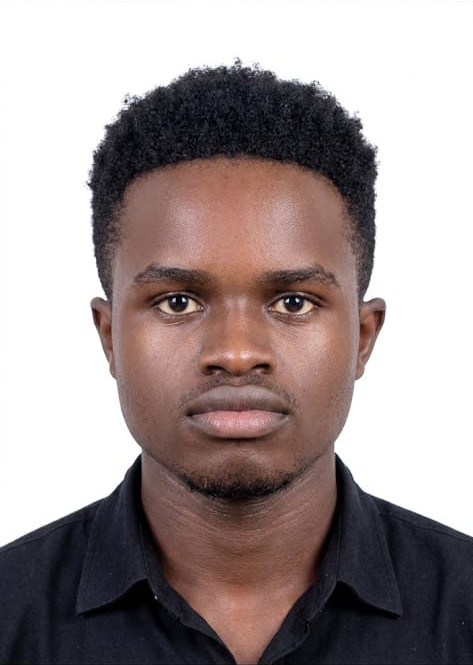
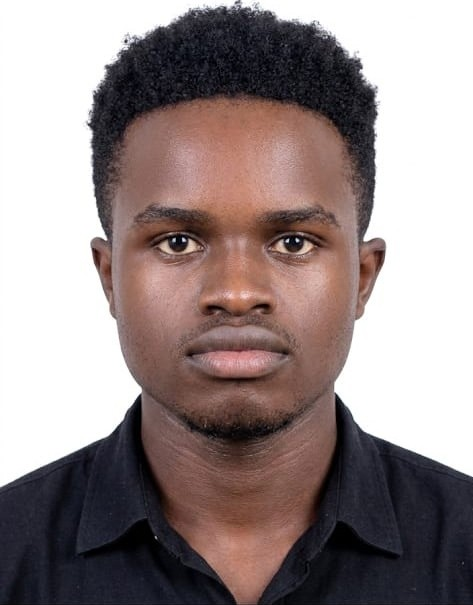
update_news_and_footer

diff --git a/admin/index.html b/admin/index.html
@@ -149,24 +149,36 @@
             <div class="grid grid-cols-1 md:grid-cols-2 lg:grid-cols-3 gap-8">
                 <!-- JEKYLL STARTS READING _POSTS HERE -->
                 {% for post in site.posts %}
-                <article class="bg-white rounded-2xl overflow-hidden shadow-md hover:shadow-xl transition-shadow border border-slate-100 flex flex-col">
+                <article class="bg-white rounded-2xl overflow-hidden shadow-md hover:shadow-xl transition-all border border-slate-100 flex flex-col relative group">
+                    
+                    <!-- TAG/CATEGORY BADGE -->
+                    <div class="absolute top-4 left-4 z-10 bg-white/95 backdrop-blur-sm text-marine-800 text-xs font-extrabold px-3 py-1 rounded-full shadow-sm uppercase tracking-wider">
+                        {{ post.category | default: "Update" }}
+                    </div>
+
                     {% if post.image %}
                     <div class="h-48 overflow-hidden bg-slate-200 relative">
-                        <img src="{{ post.image }}" alt="{{ post.title }}" class="w-full h-full object-cover transition-transform duration-500 hover:scale-105">
+                        <a href="{{ post.url | relative_url }}">
+                            <img src="{{ post.image }}" alt="{{ post.title }}" class="w-full h-full object-cover transition-transform duration-500 group-hover:scale-105">
+                        </a>
                     </div>
                     {% endif %}
                     <div class="p-6 flex flex-col flex-grow">
                         <div class="flex items-center gap-2 text-xs font-semibold text-emerald-600 mb-3 uppercase tracking-wider">
                             <span>{{ post.date | date: "%B %d, %Y" }}</span>
                         </div>
-                        <h3 class="font-bold text-xl text-slate-900 mb-3 leading-tight">
-                            {{ post.title }}
+                        <h3 class="font-bold text-xl text-slate-900 mb-3 leading-tight hover:text-marine-700 transition-colors">
+                            <a href="{{ post.url | relative_url }}">{{ post.title }}</a>
                         </h3>
                         <div class="text-slate-600 mb-6 text-sm line-clamp-3">
                             {{ post.content | strip_html | truncatewords: 30 }}
                         </div>
                         <div class="mt-auto pt-4 border-t border-slate-100 flex items-center justify-between">
                             <span class="text-xs font-medium text-slate-500">By {{ post.author | default: "SOMEK Core Team" }}</span>
+                            <!-- READ MORE LINK -->
+                            <a href="{{ post.url | relative_url }}" class="text-emerald-600 hover:text-emerald-700 font-bold text-sm flex items-center gap-1 transition-colors">
+                                Read More <svg xmlns="http://www.w3.org/2000/svg" class="w-4 h-4" viewBox="0 0 24 24" fill="none" stroke="currentColor" stroke-width="2" stroke-linecap="round" stroke-linejoin="round"><line x1="5" y1="12" x2="19" y2="12"></line><polyline points="12 5 19 12 12 19"></polyline></svg>
+                            </a>
                         </div>
                     </div>
                 </article>
@@ -235,10 +247,25 @@
                 </div>
                 <div>
                     <h4 class="text-white font-bold mb-4">Connect</h4>
-                    <ul class="space-y-2 text-sm">
-                        <li><a href="#" class="hover:text-emerald-400 transition-colors">LinkedIn</a></li>
-                        <li><a href="#" class="hover:text-emerald-400 transition-colors">Twitter (X)</a></li>
-                        <li><a href="#" class="hover:text-emerald-400 transition-colors">Facebook</a></li>
+                    <ul class="space-y-3 text-sm">
+                        <li>
+                            <a href="https://linkedin.com" target="_blank" class="flex items-center gap-2 hover:text-emerald-400 transition-colors">
+                                <svg class="w-5 h-5" fill="currentColor" viewBox="0 0 24 24"><path d="M19 0h-14c-2.761 0-5 2.239-5 5v14c0 2.761 2.239 5 5 5h14c2.762 0 5-2.239 5-5v-14c0-2.761-2.238-5-5-5zm-11 19h-3v-11h3v11zm-1.5-12.268c-.966 0-1.75-.79-1.75-1.764s.784-1.764 1.75-1.764 1.75.79 1.75 1.764-.783 1.764-1.75 1.764zm13.5 12.268h-3v-5.604c0-3.368-4-3.113-4 0v5.604h-3v-11h3v1.765c1.396-2.586 7-2.777 7 2.476v6.759z"/></svg>
+                                LinkedIn
+                            </a>
+                        </li>
+                        <li>
+                            <a href="https://twitter.com" target="_blank" class="flex items-center gap-2 hover:text-emerald-400 transition-colors">
+                                <svg class="w-5 h-5" fill="currentColor" viewBox="0 0 24 24"><path d="M24 4.557c-.883.392-1.832.656-2.828.775 1.017-.609 1.798-1.574 2.165-2.724-.951.564-2.005.974-3.127 1.195-.897-.957-2.178-1.555-3.594-1.555-3.179 0-5.515 2.966-4.797 6.045-4.091-.205-7.719-2.165-10.148-5.144-1.29 2.213-.669 5.108 1.523 6.574-.806-.026-1.566-.247-2.229-.616-.054 2.281 1.581 4.415 3.949 4.89-.693.188-1.452.232-2.224.084.626 1.956 2.444 3.379 4.6 3.419-2.07 1.623-4.678 2.348-7.29 2.04 2.179 1.397 4.768 2.212 7.548 2.212 9.142 0 14.307-7.721 13.995-14.646.962-.695 1.797-1.562 2.457-2.549z"/></svg>
+                                Twitter (X)
+                            </a>
+                        </li>
+                        <li>
+                            <a href="https://facebook.com" target="_blank" class="flex items-center gap-2 hover:text-emerald-400 transition-colors">
+                                <svg class="w-5 h-5" fill="currentColor" viewBox="0 0 24 24"><path d="M9 8h-3v4h3v12h5v-12h3.642l.358-4h-4v-1.667c0-.955.192-1.333 1.115-1.333h2.885v-5h-3.808c-3.596 0-5.192 1.583-5.192 4.615v3.385z"/></svg>
+                                Facebook
+                            </a>
+                        </li>
                     </ul>
                 </div>
             </div>

diff --git a/index.html b/index.html
@@ -149,24 +149,36 @@
             <div class="grid grid-cols-1 md:grid-cols-2 lg:grid-cols-3 gap-8">
                 <!-- JEKYLL STARTS READING _POSTS HERE -->
                 {% for post in site.posts %}
-                <article class="bg-white rounded-2xl overflow-hidden shadow-md hover:shadow-xl transition-shadow border border-slate-100 flex flex-col">
+                <article class="bg-white rounded-2xl overflow-hidden shadow-md hover:shadow-xl transition-all border border-slate-100 flex flex-col relative group">
+                    
+                    <!-- TAG/CATEGORY BADGE -->
+                    <div class="absolute top-4 left-4 z-10 bg-white/95 backdrop-blur-sm text-marine-800 text-xs font-extrabold px-3 py-1 rounded-full shadow-sm uppercase tracking-wider">
+                        {{ post.category | default: "Update" }}
+                    </div>
+
                     {% if post.image %}
                     <div class="h-48 overflow-hidden bg-slate-200 relative">
-                        <img src="{{ post.image }}" alt="{{ post.title }}" class="w-full h-full object-cover transition-transform duration-500 hover:scale-105">
+                        <a href="{{ post.url | relative_url }}">
+                            <img src="{{ post.image }}" alt="{{ post.title }}" class="w-full h-full object-cover transition-transform duration-500 group-hover:scale-105">
+                        </a>
                     </div>
                     {% endif %}
                     <div class="p-6 flex flex-col flex-grow">
                         <div class="flex items-center gap-2 text-xs font-semibold text-emerald-600 mb-3 uppercase tracking-wider">
                             <span>{{ post.date | date: "%B %d, %Y" }}</span>
                         </div>
-                        <h3 class="font-bold text-xl text-slate-900 mb-3 leading-tight">
-                            {{ post.title }}
+                        <h3 class="font-bold text-xl text-slate-900 mb-3 leading-tight hover:text-marine-700 transition-colors">
+                            <a href="{{ post.url | relative_url }}">{{ post.title }}</a>
                         </h3>
                         <div class="text-slate-600 mb-6 text-sm line-clamp-3">
                             {{ post.content | strip_html | truncatewords: 30 }}
                         </div>
                         <div class="mt-auto pt-4 border-t border-slate-100 flex items-center justify-between">
                             <span class="text-xs font-medium text-slate-500">By {{ post.author | default: "SOMEK Core Team" }}</span>
+                            <!-- READ MORE LINK -->
+                            <a href="{{ post.url | relative_url }}" class="text-emerald-600 hover:text-emerald-700 font-bold text-sm flex items-center gap-1 transition-colors">
+                                Read More <svg xmlns="http://www.w3.org/2000/svg" class="w-4 h-4" viewBox="0 0 24 24" fill="none" stroke="currentColor" stroke-width="2" stroke-linecap="round" stroke-linejoin="round"><line x1="5" y1="12" x2="19" y2="12"></line><polyline points="12 5 19 12 12 19"></polyline></svg>
+                            </a>
                         </div>
                     </div>
                 </article>
@@ -235,10 +247,25 @@
                 </div>
                 <div>
                     <h4 class="text-white font-bold mb-4">Connect</h4>
-                    <ul class="space-y-2 text-sm">
-                        <li><a href="#" class="hover:text-emerald-400 transition-colors">LinkedIn</a></li>
-                        <li><a href="#" class="hover:text-emerald-400 transition-colors">Twitter (X)</a></li>
-                        <li><a href="#" class="hover:text-emerald-400 transition-colors">Facebook</a></li>
+                    <ul class="space-y-3 text-sm">
+                        <li>
+                            <a href="https://linkedin.com" target="_blank" class="flex items-center gap-2 hover:text-emerald-400 transition-colors">
+                                <svg class="w-5 h-5" fill="currentColor" viewBox="0 0 24 24"><path d="M19 0h-14c-2.761 0-5 2.239-5 5v14c0 2.761 2.239 5 5 5h14c2.762 0 5-2.239 5-5v-14c0-2.761-2.238-5-5-5zm-11 19h-3v-11h3v11zm-1.5-12.268c-.966 0-1.75-.79-1.75-1.764s.784-1.764 1.75-1.764 1.75.79 1.75 1.764-.783 1.764-1.75 1.764zm13.5 12.268h-3v-5.604c0-3.368-4-3.113-4 0v5.604h-3v-11h3v1.765c1.396-2.586 7-2.777 7 2.476v6.759z"/></svg>
+                                LinkedIn
+                            </a>
+                        </li>
+                        <li>
+                            <a href="https://twitter.com" target="_blank" class="flex items-center gap-2 hover:text-emerald-400 transition-colors">
+                                <svg class="w-5 h-5" fill="currentColor" viewBox="0 0 24 24"><path d="M24 4.557c-.883.392-1.832.656-2.828.775 1.017-.609 1.798-1.574 2.165-2.724-.951.564-2.005.974-3.127 1.195-.897-.957-2.178-1.555-3.594-1.555-3.179 0-5.515 2.966-4.797 6.045-4.091-.205-7.719-2.165-10.148-5.144-1.29 2.213-.669 5.108 1.523 6.574-.806-.026-1.566-.247-2.229-.616-.054 2.281 1.581 4.415 3.949 4.89-.693.188-1.452.232-2.224.084.626 1.956 2.444 3.379 4.6 3.419-2.07 1.623-4.678 2.348-7.29 2.04 2.179 1.397 4.768 2.212 7.548 2.212 9.142 0 14.307-7.721 13.995-14.646.962-.695 1.797-1.562 2.457-2.549z"/></svg>
+                                Twitter (X)
+                            </a>
+                        </li>
+                        <li>
+                            <a href="https://facebook.com" target="_blank" class="flex items-center gap-2 hover:text-emerald-400 transition-colors">
+                                <svg class="w-5 h-5" fill="currentColor" viewBox="0 0 24 24"><path d="M9 8h-3v4h3v12h5v-12h3.642l.358-4h-4v-1.667c0-.955.192-1.333 1.115-1.333h2.885v-5h-3.808c-3.596 0-5.192 1.583-5.192 4.615v3.385z"/></svg>
+                                Facebook
+                            </a>
+                        </li>
                     </ul>
                 </div>
             </div>
